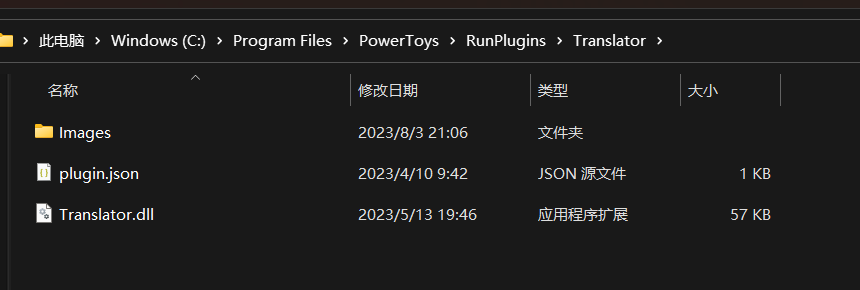
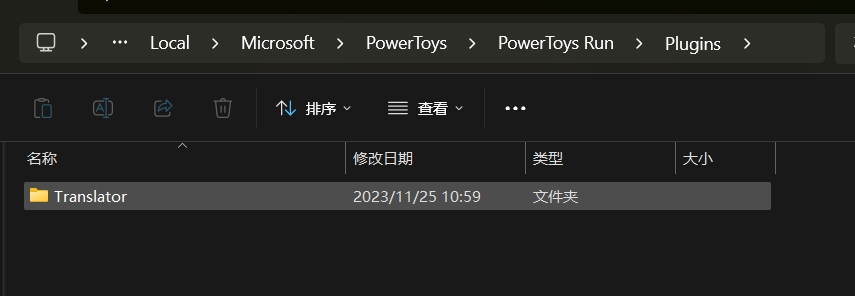
doc：修正了插件安装路径到官方建议位置

diff --git a/readme_en.md b/readme_en.md
@@ -82,10 +82,12 @@ The plugin has been updated to use Youdao translation, which supports translatio
 
 1. Close PowerToys.
 2. Download [Translator.zip](https://github.com/N0I0C0K/PowerTranslator/releases).
-3. Extract it to `{installation directory}\RunPlugins\`.
+3. Extract it to `%LOCALAPPDATA%\Microsoft\PowerToys\PowerToys Run\Plugins`.
    As shown in the figure:
    ![file](Images/file.png)
 4. Start PowerToys.
+
+Refer to official documents, [Third-Party plugins for PowerToy Run](https://github.com/microsoft/PowerToys/blob/main/doc/thirdPartyRunPlugins.md)
 
 [Installation-upgrade detailed tutorial](./doc/how%20to%20install.md)
 
@@ -97,7 +99,8 @@ The plugin has been updated to use Youdao translation, which supports translatio
   ![auto clean](Images/auto_clean.png)
 - It is recommended to check `Smooth input`, which can optimize the input experience.
   ![enable Smooth input](Images/enable%20Smooth%20input.png)
-
+- Toggles the default target translation language, which defaults to 'auto'
+  ![languages](Images/languages.png)
 ## Issue
 
 If you find translation failure, unknown errors, or need new features, please submit an issue. I will fix or improve it in time.

diff --git a/doc/how to install.md b/doc/how to install.md
@@ -2,25 +2,15 @@
 
 1. 关闭 PowerToys
 2. 下载 [Translator.zip](https://github.com/N0I0C0K/PowerTranslator/releases)
-3. 解压到`{安装目录}\RunPlugins\`.
+3. 解压到`%LOCALAPPDATA%\Microsoft\PowerToys\PowerToys Run\Plugins`.
    如图所示
    ![file](../Images/file.png)
 
-   (如果出现了无法解压的问题, [可以使用命令行安装](#使用命令行安装))
-
 4. 启动 PowerToys
-
-## 使用命令行安装
-
-在一些情况下（通常是因为需要管理员权限）可能出现无法解压的情况, 可以使用命令行安装, 确保你已经将`Translator.zip`放入 Plugins 目录下.
-
-1. `win+s`搜索 PowerShell, 以管理员身份运行.
-2. 执行`cd "{安装目录}\RunPlugins\"`
-3. 执行`Expand-Archive -Path ./Translator.zip -DestinationPath ./Translator -Force`
 
 ## 如何升级
 
 1. 关闭 PowerToys
 2. 下载新版本`Translator.zip`.
-3. 解压覆盖掉原先的 Translator 文件夹即可.(同样如果出现无法解压的问题[可以使用命令行安装](#使用命令行安装))
+3. 解压覆盖掉原先的 Translator 文件夹即可.
 4. 启动 PowerToys

diff --git a/readme.md b/readme.md
@@ -81,10 +81,12 @@
 
 1. 关闭 PowerToys
 2. 下载 [Translator.zip](https://github.com/N0I0C0K/PowerTranslator/releases)
-3. 解压到`{安装目录}\RunPlugins\`
+3. 解压到`%LOCALAPPDATA%\Microsoft\PowerToys\PowerToys Run\Plugins`
    如图所示
    ![file](Images/file.png)
 4. 启动 PowerToys
+
+(参考官方[第三方插件安装文档](https://github.com/microsoft/PowerToys/blob/main/doc/thirdPartyRunPlugins.md))
 
 [安装-升级 详细教程](./doc/how%20to%20install.md)
 
